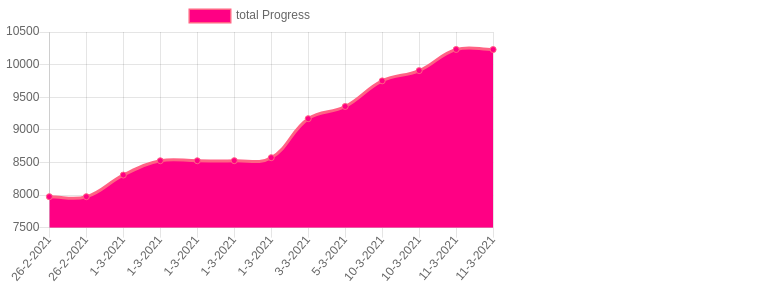
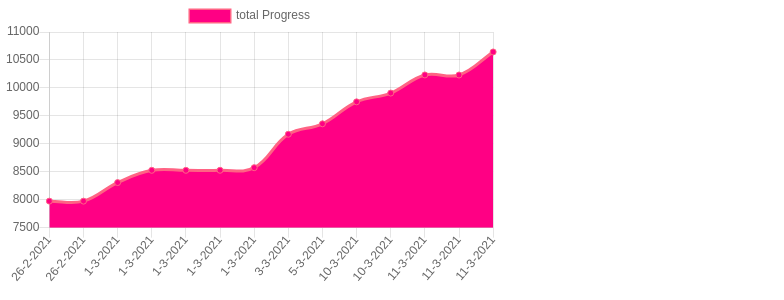
400: ruby on rails(controlers and models, sessions)

Changed region(s): [[0.0, 0.15, 0.6429, 0.69], [0.0612, 0.78, 0.5816, 0.93], [0.0, 0.09, 0.0306, 0.12]]

diff --git a/total.html b/total.html
@@ -9,7 +9,7 @@
         <script src="https://cdn.jsdelivr.net/npm/chart.js@2.8.0"></script>
         <script>
           var ctx = document.getElementById("total").getContext("2d");
-          const goLabelsDates = ["2021-02-27T01:37:43.112Z","2021-02-27T01:38:01.628Z","2021-03-01T13:41:18.753Z","2021-03-01T14:53:41.991Z","2021-03-01T15:08:00.851Z","2021-03-01T15:09:10.635Z","2021-03-01T15:22:55.385Z","2021-03-03T15:31:41.151Z","2021-03-05T14:02:13.446Z","2021-03-10T14:50:13.297Z","2021-03-11T01:54:03.424Z","2021-03-11T15:32:47.647Z","2021-03-11T16:01:51.191Z",];
+          const goLabelsDates = ["2021-02-27T01:37:43.112Z","2021-02-27T01:38:01.628Z","2021-03-01T13:41:18.753Z","2021-03-01T14:53:41.991Z","2021-03-01T15:08:00.851Z","2021-03-01T15:09:10.635Z","2021-03-01T15:22:55.385Z","2021-03-03T15:31:41.151Z","2021-03-05T14:02:13.446Z","2021-03-10T14:50:13.297Z","2021-03-11T01:54:03.424Z","2021-03-11T15:32:47.647Z","2021-03-11T16:01:51.191Z","2021-03-12T00:36:04.646Z",];
           var chart = new Chart(ctx, {
             type: 'line',
             data: {
@@ -18,7 +18,7 @@
                 label: 'total Progress',
                 backgroundColor: 'rgb(255, 0, 132)',
                 borderColor: 'rgb(255, 99, 132)',
-                data: [7975,7975,8307,8526,8526,8527,8573,9171,9358,9751,9908,10232,10231,]
+                data: [7975,7975,8307,8526,8526,8527,8573,9171,9358,9751,9908,10232,10231,10643,]
               }]
             },
           });

diff --git a/ruby.html b/ruby.html
@@ -9,7 +9,7 @@
         <script src="https://cdn.jsdelivr.net/npm/chart.js@2.8.0"></script>
         <script>
           var ctx = document.getElementById("ruby").getContext("2d");
-          const goLabelsDates = ["2021-02-27T01:37:43.111Z","2021-02-27T01:38:01.627Z","2021-03-03T15:31:41.151Z",];
+          const goLabelsDates = ["2021-02-27T01:37:43.111Z","2021-02-27T01:38:01.627Z","2021-03-03T15:31:41.151Z","2021-03-12T00:36:04.646Z",];
           var chart = new Chart(ctx, {
             type: 'line',
             data: {
@@ -18,7 +18,7 @@
                 label: 'ruby Progress',
                 backgroundColor: 'rgb(255, 0, 132)',
                 borderColor: 'rgb(255, 99, 132)',
-                data: [810,810,1056,]
+                data: [810,810,1056,1469,]
               }]
             },
           });

diff --git a/Readme.md b/Readme.md
@@ -4,17 +4,17 @@
 |go|2201|110|110|![go](https://raw.githubusercontent.com/kapit4n/l-10000-dev/master/go.png)|structs, loops|
 |js|1979|99|99|![js](https://raw.githubusercontent.com/kapit4n/l-10000-dev/master/js.png)|react, , angular, |
 |python|1501|75|75|![python](https://raw.githubusercontent.com/kapit4n/l-10000-dev/master/python.png)|collections, |
+|ruby|1469|73|73|![ruby](https://raw.githubusercontent.com/kapit4n/l-10000-dev/master/ruby.png)||
 |scala|1368|68|68|![scala](https://raw.githubusercontent.com/kapit4n/l-10000-dev/master/scala.png)|play framework, akka, collections|
-|java|1241|62|62|![java](https://raw.githubusercontent.com/kapit4n/l-10000-dev/master/java.png)|reflexion, strings, generics, documentation|
-|ruby|1056|53|53|![ruby](https://raw.githubusercontent.com/kapit4n/l-10000-dev/master/ruby.png)||
+|java|1240|62|62|![java](https://raw.githubusercontent.com/kapit4n/l-10000-dev/master/java.png)|reflexion, strings, generics, documentation|
 |ts|829|41|41|![ts](https://raw.githubusercontent.com/kapit4n/l-10000-dev/master/ts.png)|angular|
 |words|47|2|2|![words](https://raw.githubusercontent.com/kapit4n/l-10000-dev/master/words.png)||
 |sql|9|0|0|![sql](https://raw.githubusercontent.com/kapit4n/l-10000-dev/master/sql.png)||
 |dotnet|0|0|0|![dotnet](https://raw.githubusercontent.com/kapit4n/l-10000-dev/master/dotnet.png)||
-|TOTAL|10231|1023.100%|
+|TOTAL|10643|1064.300%|
 10/02(0)
 
-10/03(10231)
+10/03(10643)
 
 
 # run it
@@ -37,4 +37,4 @@ node ./count.js
 * Angular, React, Vue
 * Spring, Play
 * Scala, Java
-, 2021-03-11T16:03:07.124Z
+, 2021-03-12T00:36:04.646Z
